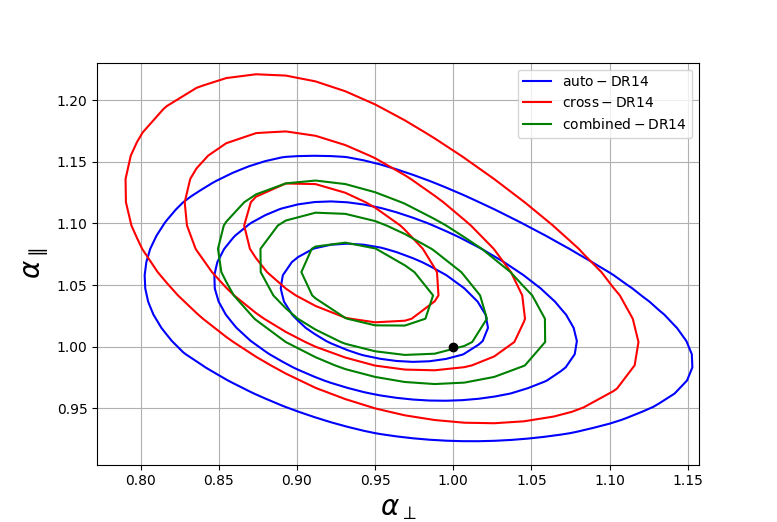
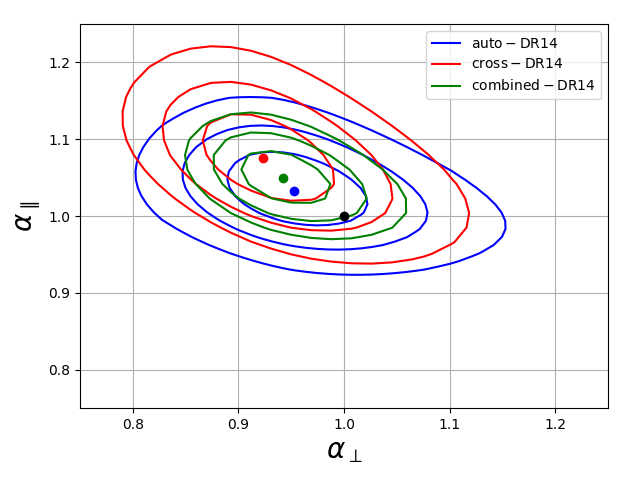
Update the plot with center of likelihood

diff --git a/tutorials/data/picca_plot_chi2_surface.py b/tutorials/data/picca_plot_chi2_surface.py
@@ -113,8 +113,9 @@ if __name__ == '__main__':
         plt.ylabel(r'$\alpha_{\parallel}$', fontsize=20)
         plt.errorbar([1.],[1.],fmt='o',color='black')
 
-    plt.xlim([0.5*dmord,1.5*dmord])
-    plt.ylim([0.5*dhord,1.5*dhord])
+    plt.xlim([0.75*dmord,1.25*dmord])
+    plt.ylim([0.75*dhord,1.25*dhord])
+    plt.subplots_adjust(bottom=0.15,top=0.95,right=0.95)
     plt.grid(True)
     plt.legend()
     plt.show()
